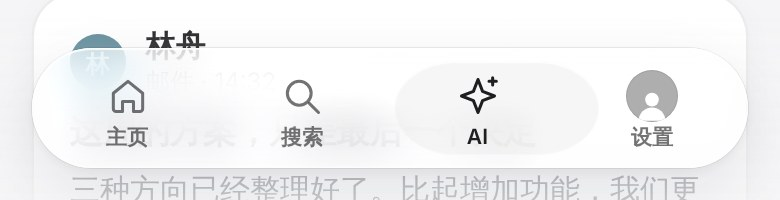
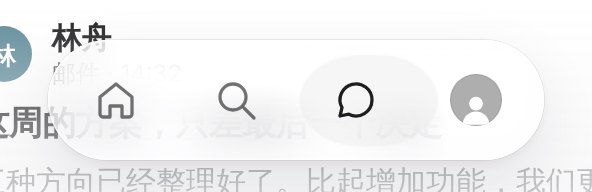
Sync design system and board 35 for phone pages; update ADR 0035 and interaction spec
Online first: Design System rules, tokens and GlassDock docs, and board 35 were published to
claude.ai, then synced here.

Claude-Session: https://claude.ai/code/session_01Mtmw4cpnpcnqq8w3hqXRvF

diff --git a/design-system/boards/index.html b/design-system/boards/index.html
@@ -16,7 +16,7 @@ main{max-width:1280px;margin:0 auto;padding:0 32px 64px}h2{font-size:17px;margin
 @media (max-width:600px){header,main{padding-left:16px;padding-right:16px}}
 </style></head><body>
 <header><h1>Sill · 设计画板</h1><p>33 块画板，与线上设计画布同步保存。用 <code>npm run boards</code> 打开，点任一块查看原尺寸；标「可交互」的可以直接点、滑。</p></header>
-<main><section><h2>① 品牌与全貌 · Sill 是什么、有哪些页面</h2><div class="g"><a class="b" href="Brand.dc.html"><span class="f" style="aspect-ratio:1440/1240"><iframe src="Brand.dc.html" loading="lazy" tabindex="-1" scrolling="no" style="width:1440px;height:1240px"></iframe></span><b>27 品牌 · Sill 窗台</b></a><a class="b" href="Sitemap.dc.html"><span class="f" style="aspect-ratio:1440/1000"><iframe src="Sitemap.dc.html" loading="lazy" tabindex="-1" scrolling="no" style="width:1440px;height:1000px"></iframe></span><b>28 页面地图</b></a></div></section><section><h2>② 进来 · 首次打开、接入来源、随手收集</h2><div class="g"><a class="b" href="Onboarding.dc.html"><span class="f" style="aspect-ratio:1440/1500"><iframe src="Onboarding.dc.html" loading="lazy" tabindex="-1" scrolling="no" style="width:1440px;height:1500px"></iframe></span><b>24 首次打开与导入</b></a><a class="b" href="SourcesImport.dc.html"><span class="f" style="aspect-ratio:1440/1360"><iframe src="SourcesImport.dc.html" loading="lazy" tabindex="-1" scrolling="no" style="width:1440px;height:1360px"></iframe></span><b>31 来源与导入</b></a><a class="b" href="Capture.dc.html"><span class="f" style="aspect-ratio:1440/1340"><iframe src="Capture.dc.html" loading="lazy" tabindex="-1" scrolling="no" style="width:1440px;height:1340px"></iframe></span><b>33 收集入口</b></a></div></section><section><h2>③ 桌面 · 信息流、下滑与等待、量大与去重</h2><div class="g"><a class="b" href="FinalFeed.dc.html"><span class="f" style="aspect-ratio:1440/1560"><iframe src="FinalFeed.dc.html" loading="lazy" tabindex="-1" scrolling="no" style="width:1440px;height:1560px"></iframe></span><b>11 定稿 · 桌面信息流 1440</b></a><a class="b" href="FinalMobile.dc.html"><span class="f" style="aspect-ratio:390/468.0"><iframe src="FinalMobile.dc.html" loading="lazy" tabindex="-1" scrolling="no" style="width:390px;height:1560px"></iframe></span><b>12 定稿 · 手机 390</b></a><a class="b" href="WebProto.dc.html"><span class="f" style="aspect-ratio:1440/960"><iframe src="WebProto.dc.html" loading="lazy" tabindex="-1" scrolling="no" style="width:1440px;height:960px"></iframe></span><b>20 定稿 · 桌面交互（可滚动）</b><em>可交互</em></a><a class="b" href="MobileProto.dc.html"><span class="f" style="aspect-ratio:860/940"><iframe src="MobileProto.dc.html" loading="lazy" tabindex="-1" scrolling="no" style="width:860px;height:940px"></iframe></span><b>19 定稿 · 手机交互（可滑动）</b><em>可交互</em></a><a class="b" href="ScrollWait.dc.html"><span class="f" style="aspect-ratio:1440/1728.0"><iframe src="ScrollWait.dc.html" loading="lazy" tabindex="-1" scrolling="no" style="width:1440px;height:2240px"></iframe></span><b>18 定稿 · 下滑与等待 v2</b></a><a class="b" href="Volume.dc.html"><span class="f" style="aspect-ratio:1440/1700"><iframe src="Volume.dc.html" loading="lazy" tabindex="-1" scrolling="no" style="width:1440px;height:1700px"></iframe></span><b>25 量大与去重</b></a><a class="b" href="GlassRail.dc.html"><span class="f" style="aspect-ratio:1440/2380"><iframe src="GlassRail.dc.html" loading="lazy" tabindex="-1" scrolling="no" style="width:1440px;height:2380px"></iframe></span><b>34 定稿 v3 · 玻璃底栏与工具条</b></a><a class="b" href="NavCapsule.dc.html"><span class="f" style="aspect-ratio:1440/1728.0"><iframe src="NavCapsule.dc.html" loading="lazy" tabindex="-1" scrolling="no" style="width:1440px;height:3130px"></iframe></span><b>35 定稿 v4 · 底部导航胶囊</b></a></div></section><section><h2>④ 打开 · 预览、动效、站内详情、退出</h2><div class="g"><a class="b" href="FinalOverlays.dc.html"><span class="f" style="aspect-ratio:1440/1728.0"><iframe src="FinalOverlays.dc.html" loading="lazy" tabindex="-1" scrolling="no" style="width:1440px;height:3440px"></iframe></span><b>15 定稿 · 弹层 v2</b></a><a class="b" href="MotionProto.dc.html"><span class="f" style="aspect-ratio:1440/960"><iframe src="MotionProto.dc.html" loading="lazy" tabindex="-1" scrolling="no" style="width:1440px;height:960px"></iframe></span><b>16 定稿 · 弹出动效（可点击）</b><em>可交互</em></a><a class="b" href="Details.dc.html"><span class="f" style="aspect-ratio:1440/1720"><iframe src="Details.dc.html" loading="lazy" tabindex="-1" scrolling="no" style="width:1440px;height:1720px"></iframe></span><b>29 站内详情</b></a><a class="b" href="ExitRules.dc.html"><span class="f" style="aspect-ratio:1440/1220"><iframe src="ExitRules.dc.html" loading="lazy" tabindex="-1" scrolling="no" style="width:1440px;height:1220px"></iframe></span><b>17 定稿 · 退出交互</b></a></div></section><section><h2>⑤ 找与管 · 搜索归档、来源信任、设置</h2><div class="g"><a class="b" href="SearchArchive.dc.html"><span class="f" style="aspect-ratio:1440/1400"><iframe src="SearchArchive.dc.html" loading="lazy" tabindex="-1" scrolling="no" style="width:1440px;height:1400px"></iframe></span><b>30 搜索与归档</b></a><a class="b" href="Trust.dc.html"><span class="f" style="aspect-ratio:1440/1060"><iframe src="Trust.dc.html" loading="lazy" tabindex="-1" scrolling="no" style="width:1440px;height:1060px"></iframe></span><b>26 来源与信任</b></a><a class="b" href="Settings.dc.html"><span class="f" style="aspect-ratio:1440/1420"><iframe src="Settings.dc.html" loading="lazy" tabindex="-1" scrolling="no" style="width:1440px;height:1420px"></iframe></span><b>32 设置</b></a></div></section><section><h2>⑥ 底层 · 卡片积木、预设、文字、图标与规范</h2><div class="g"><a class="b" href="CardBlocks.dc.html"><span class="f" style="aspect-ratio:1440/1728.0"><iframe src="CardBlocks.dc.html" loading="lazy" tabindex="-1" scrolling="no" style="width:1440px;height:2140px"></iframe></span><b>21 卡片积木（可拼）</b><em>可交互</em></a><a class="b" href="CardRecipes.dc.html"><span class="f" style="aspect-ratio:1440/1728.0"><iframe src="CardRecipes.dc.html" loading="lazy" tabindex="-1" scrolling="no" style="width:1440px;height:3770px"></iframe></span><b>22 预设卡片 · 32 种 · 站内与跳转</b></a><a class="b" href="TextLimits.dc.html"><span class="f" style="aspect-ratio:1440/1508"><iframe src="TextLimits.dc.html" loading="lazy" tabindex="-1" scrolling="no" style="width:1440px;height:1508px"></iframe></span><b>23 文字长度</b></a><a class="b" href="FinalIcons.dc.html"><span class="f" style="aspect-ratio:1440/1000"><iframe src="FinalIcons.dc.html" loading="lazy" tabindex="-1" scrolling="no" style="width:1440px;height:1000px"></iframe></span><b>13 定稿 · 图标 36 + 4</b></a><a class="b" href="FinalSpec.dc.html"><span class="f" style="aspect-ratio:1440/1180"><iframe src="FinalSpec.dc.html" loading="lazy" tabindex="-1" scrolling="no" style="width:1440px;height:1180px"></iframe></span><b>14 定稿 · 规范总表</b></a></div></section><section><h2>过程 1 · 现状盘点 main@fc9f267</h2><div class="g"><a class="b" href="Main.dc.html"><span class="f" style="aspect-ratio:1440/1180"><iframe src="Main.dc.html" loading="lazy" tabindex="-1" scrolling="no" style="width:1440px;height:1180px"></iframe></span><b>01 功能分布</b></a><a class="b" href="Cards.dc.html"><span class="f" style="aspect-ratio:1440/1180"><iframe src="Cards.dc.html" loading="lazy" tabindex="-1" scrolling="no" style="width:1440px;height:1180px"></iframe></span><b>02 卡片类型</b></a><a class="b" href="Icons.dc.html"><span class="f" style="aspect-ratio:1440/1120"><iframe src="Icons.dc.html" loading="lazy" tabindex="-1" scrolling="no" style="width:1440px;height:1120px"></iframe></span><b>03 图标盘点</b></a><a class="b" href="Foundations.dc.html"><span class="f" style="aspect-ratio:1440/1120"><iframe src="Foundations.dc.html" loading="lazy" tabindex="-1" scrolling="no" style="width:1440px;height:1120px"></iframe></span><b>04 视觉基础</b></a></div></section><section><h2>过程 2 · 优化方向，向 Apple 的细节靠拢</h2><div class="g"><a class="b" href="AppleCompare.dc.html"><span class="f" style="aspect-ratio:1440/1240"><iframe src="AppleCompare.dc.html" loading="lazy" tabindex="-1" scrolling="no" style="width:1440px;height:1240px"></iframe></span><b>05 Apple 风格对照</b></a><a class="b" href="CardsNext.dc.html"><span class="f" style="aspect-ratio:1440/1240"><iframe src="CardsNext.dc.html" loading="lazy" tabindex="-1" scrolling="no" style="width:1440px;height:1240px"></iframe></span><b>06 卡片 · 优化前后</b></a><a class="b" href="IconsNext.dc.html"><span class="f" style="aspect-ratio:1440/1240"><iframe src="IconsNext.dc.html" loading="lazy" tabindex="-1" scrolling="no" style="width:1440px;height:1240px"></iframe></span><b>07 图标 · 语义重排</b></a></div></section><section><h2>过程 3 · 卡片重构：类型、表达与尺寸</h2><div class="g"><a class="b" href="CardSystem.dc.html"><span class="f" style="aspect-ratio:1440/1120"><iframe src="CardSystem.dc.html" loading="lazy" tabindex="-1" scrolling="no" style="width:1440px;height:1120px"></iframe></span><b>08 卡片体系 · 10 → 7</b></a><a class="b" href="CardForms.dc.html"><span class="f" style="aspect-ratio:1440/1240"><iframe src="CardForms.dc.html" loading="lazy" tabindex="-1" scrolling="no" style="width:1440px;height:1240px"></iframe></span><b>09 七类卡片表达</b></a><a class="b" href="CardSizing.dc.html"><span class="f" style="aspect-ratio:1440/1380"><iframe src="CardSizing.dc.html" loading="lazy" tabindex="-1" scrolling="no" style="width:1440px;height:1380px"></iframe></span><b>10 尺寸与内容规范</b></a></div></section></main>
+<main><section><h2>① 品牌与全貌 · Sill 是什么、有哪些页面</h2><div class="g"><a class="b" href="Brand.dc.html"><span class="f" style="aspect-ratio:1440/1240"><iframe src="Brand.dc.html" loading="lazy" tabindex="-1" scrolling="no" style="width:1440px;height:1240px"></iframe></span><b>27 品牌 · Sill 窗台</b></a><a class="b" href="Sitemap.dc.html"><span class="f" style="aspect-ratio:1440/1000"><iframe src="Sitemap.dc.html" loading="lazy" tabindex="-1" scrolling="no" style="width:1440px;height:1000px"></iframe></span><b>28 页面地图</b></a></div></section><section><h2>② 进来 · 首次打开、接入来源、随手收集</h2><div class="g"><a class="b" href="Onboarding.dc.html"><span class="f" style="aspect-ratio:1440/1500"><iframe src="Onboarding.dc.html" loading="lazy" tabindex="-1" scrolling="no" style="width:1440px;height:1500px"></iframe></span><b>24 首次打开与导入</b></a><a class="b" href="SourcesImport.dc.html"><span class="f" style="aspect-ratio:1440/1360"><iframe src="SourcesImport.dc.html" loading="lazy" tabindex="-1" scrolling="no" style="width:1440px;height:1360px"></iframe></span><b>31 来源与导入</b></a><a class="b" href="Capture.dc.html"><span class="f" style="aspect-ratio:1440/1340"><iframe src="Capture.dc.html" loading="lazy" tabindex="-1" scrolling="no" style="width:1440px;height:1340px"></iframe></span><b>33 收集入口</b></a></div></section><section><h2>③ 桌面 · 信息流、下滑与等待、量大与去重</h2><div class="g"><a class="b" href="FinalFeed.dc.html"><span class="f" style="aspect-ratio:1440/1560"><iframe src="FinalFeed.dc.html" loading="lazy" tabindex="-1" scrolling="no" style="width:1440px;height:1560px"></iframe></span><b>11 定稿 · 桌面信息流 1440</b></a><a class="b" href="FinalMobile.dc.html"><span class="f" style="aspect-ratio:390/468.0"><iframe src="FinalMobile.dc.html" loading="lazy" tabindex="-1" scrolling="no" style="width:390px;height:1560px"></iframe></span><b>12 定稿 · 手机 390</b></a><a class="b" href="WebProto.dc.html"><span class="f" style="aspect-ratio:1440/960"><iframe src="WebProto.dc.html" loading="lazy" tabindex="-1" scrolling="no" style="width:1440px;height:960px"></iframe></span><b>20 定稿 · 桌面交互（可滚动）</b><em>可交互</em></a><a class="b" href="MobileProto.dc.html"><span class="f" style="aspect-ratio:860/940"><iframe src="MobileProto.dc.html" loading="lazy" tabindex="-1" scrolling="no" style="width:860px;height:940px"></iframe></span><b>19 定稿 · 手机交互（可滑动）</b><em>可交互</em></a><a class="b" href="ScrollWait.dc.html"><span class="f" style="aspect-ratio:1440/1728.0"><iframe src="ScrollWait.dc.html" loading="lazy" tabindex="-1" scrolling="no" style="width:1440px;height:2240px"></iframe></span><b>18 定稿 · 下滑与等待 v2</b></a><a class="b" href="Volume.dc.html"><span class="f" style="aspect-ratio:1440/1700"><iframe src="Volume.dc.html" loading="lazy" tabindex="-1" scrolling="no" style="width:1440px;height:1700px"></iframe></span><b>25 量大与去重</b></a><a class="b" href="GlassRail.dc.html"><span class="f" style="aspect-ratio:1440/2380"><iframe src="GlassRail.dc.html" loading="lazy" tabindex="-1" scrolling="no" style="width:1440px;height:2380px"></iframe></span><b>34 定稿 v3 · 玻璃底栏与工具条</b></a><a class="b" href="NavCapsule.dc.html"><span class="f" style="aspect-ratio:1440/1728.0"><iframe src="NavCapsule.dc.html" loading="lazy" tabindex="-1" scrolling="no" style="width:1440px;height:2310px"></iframe></span><b>35 定稿 v4 · 底部导航胶囊</b></a></div></section><section><h2>④ 打开 · 预览、动效、站内详情、退出</h2><div class="g"><a class="b" href="FinalOverlays.dc.html"><span class="f" style="aspect-ratio:1440/1728.0"><iframe src="FinalOverlays.dc.html" loading="lazy" tabindex="-1" scrolling="no" style="width:1440px;height:3440px"></iframe></span><b>15 定稿 · 弹层 v2</b></a><a class="b" href="MotionProto.dc.html"><span class="f" style="aspect-ratio:1440/960"><iframe src="MotionProto.dc.html" loading="lazy" tabindex="-1" scrolling="no" style="width:1440px;height:960px"></iframe></span><b>16 定稿 · 弹出动效（可点击）</b><em>可交互</em></a><a class="b" href="Details.dc.html"><span class="f" style="aspect-ratio:1440/1720"><iframe src="Details.dc.html" loading="lazy" tabindex="-1" scrolling="no" style="width:1440px;height:1720px"></iframe></span><b>29 站内详情</b></a><a class="b" href="ExitRules.dc.html"><span class="f" style="aspect-ratio:1440/1220"><iframe src="ExitRules.dc.html" loading="lazy" tabindex="-1" scrolling="no" style="width:1440px;height:1220px"></iframe></span><b>17 定稿 · 退出交互</b></a></div></section><section><h2>⑤ 找与管 · 搜索归档、来源信任、设置</h2><div class="g"><a class="b" href="SearchArchive.dc.html"><span class="f" style="aspect-ratio:1440/1400"><iframe src="SearchArchive.dc.html" loading="lazy" tabindex="-1" scrolling="no" style="width:1440px;height:1400px"></iframe></span><b>30 搜索与归档</b></a><a class="b" href="Trust.dc.html"><span class="f" style="aspect-ratio:1440/1060"><iframe src="Trust.dc.html" loading="lazy" tabindex="-1" scrolling="no" style="width:1440px;height:1060px"></iframe></span><b>26 来源与信任</b></a><a class="b" href="Settings.dc.html"><span class="f" style="aspect-ratio:1440/1420"><iframe src="Settings.dc.html" loading="lazy" tabindex="-1" scrolling="no" style="width:1440px;height:1420px"></iframe></span><b>32 设置</b></a></div></section><section><h2>⑥ 底层 · 卡片积木、预设、文字、图标与规范</h2><div class="g"><a class="b" href="CardBlocks.dc.html"><span class="f" style="aspect-ratio:1440/1728.0"><iframe src="CardBlocks.dc.html" loading="lazy" tabindex="-1" scrolling="no" style="width:1440px;height:2140px"></iframe></span><b>21 卡片积木（可拼）</b><em>可交互</em></a><a class="b" href="CardRecipes.dc.html"><span class="f" style="aspect-ratio:1440/1728.0"><iframe src="CardRecipes.dc.html" loading="lazy" tabindex="-1" scrolling="no" style="width:1440px;height:3770px"></iframe></span><b>22 预设卡片 · 32 种 · 站内与跳转</b></a><a class="b" href="TextLimits.dc.html"><span class="f" style="aspect-ratio:1440/1508"><iframe src="TextLimits.dc.html" loading="lazy" tabindex="-1" scrolling="no" style="width:1440px;height:1508px"></iframe></span><b>23 文字长度</b></a><a class="b" href="FinalIcons.dc.html"><span class="f" style="aspect-ratio:1440/1000"><iframe src="FinalIcons.dc.html" loading="lazy" tabindex="-1" scrolling="no" style="width:1440px;height:1000px"></iframe></span><b>13 定稿 · 图标 36 + 4</b></a><a class="b" href="FinalSpec.dc.html"><span class="f" style="aspect-ratio:1440/1180"><iframe src="FinalSpec.dc.html" loading="lazy" tabindex="-1" scrolling="no" style="width:1440px;height:1180px"></iframe></span><b>14 定稿 · 规范总表</b></a></div></section><section><h2>过程 1 · 现状盘点 main@fc9f267</h2><div class="g"><a class="b" href="Main.dc.html"><span class="f" style="aspect-ratio:1440/1180"><iframe src="Main.dc.html" loading="lazy" tabindex="-1" scrolling="no" style="width:1440px;height:1180px"></iframe></span><b>01 功能分布</b></a><a class="b" href="Cards.dc.html"><span class="f" style="aspect-ratio:1440/1180"><iframe src="Cards.dc.html" loading="lazy" tabindex="-1" scrolling="no" style="width:1440px;height:1180px"></iframe></span><b>02 卡片类型</b></a><a class="b" href="Icons.dc.html"><span class="f" style="aspect-ratio:1440/1120"><iframe src="Icons.dc.html" loading="lazy" tabindex="-1" scrolling="no" style="width:1440px;height:1120px"></iframe></span><b>03 图标盘点</b></a><a class="b" href="Foundations.dc.html"><span class="f" style="aspect-ratio:1440/1120"><iframe src="Foundations.dc.html" loading="lazy" tabindex="-1" scrolling="no" style="width:1440px;height:1120px"></iframe></span><b>04 视觉基础</b></a></div></section><section><h2>过程 2 · 优化方向，向 Apple 的细节靠拢</h2><div class="g"><a class="b" href="AppleCompare.dc.html"><span class="f" style="aspect-ratio:1440/1240"><iframe src="AppleCompare.dc.html" loading="lazy" tabindex="-1" scrolling="no" style="width:1440px;height:1240px"></iframe></span><b>05 Apple 风格对照</b></a><a class="b" href="CardsNext.dc.html"><span class="f" style="aspect-ratio:1440/1240"><iframe src="CardsNext.dc.html" loading="lazy" tabindex="-1" scrolling="no" style="width:1440px;height:1240px"></iframe></span><b>06 卡片 · 优化前后</b></a><a class="b" href="IconsNext.dc.html"><span class="f" style="aspect-ratio:1440/1240"><iframe src="IconsNext.dc.html" loading="lazy" tabindex="-1" scrolling="no" style="width:1440px;height:1240px"></iframe></span><b>07 图标 · 语义重排</b></a></div></section><section><h2>过程 3 · 卡片重构：类型、表达与尺寸</h2><div class="g"><a class="b" href="CardSystem.dc.html"><span class="f" style="aspect-ratio:1440/1120"><iframe src="CardSystem.dc.html" loading="lazy" tabindex="-1" scrolling="no" style="width:1440px;height:1120px"></iframe></span><b>08 卡片体系 · 10 → 7</b></a><a class="b" href="CardForms.dc.html"><span class="f" style="aspect-ratio:1440/1240"><iframe src="CardForms.dc.html" loading="lazy" tabindex="-1" scrolling="no" style="width:1440px;height:1240px"></iframe></span><b>09 七类卡片表达</b></a><a class="b" href="CardSizing.dc.html"><span class="f" style="aspect-ratio:1440/1380"><iframe src="CardSizing.dc.html" loading="lazy" tabindex="-1" scrolling="no" style="width:1440px;height:1380px"></iframe></span><b>10 尺寸与内容规范</b></a></div></section></main>
 <script>
 // Scale each live board to its thumbnail width.
 const fit=()=>document.querySelectorAll('.f').forEach(f=>{const i=f.querySelector('iframe');i.style.transform=`scale(${f.clientWidth/parseFloat(i.style.width)})`;});

diff --git a/design-system/boards/NavCapsule.dc.html b/design-system/boards/NavCapsule.dc.html
@@ -15,46 +15,52 @@ body{margin:0}
 <div style="width: 1440px; box-sizing: border-box; padding: 56px 52px 64px; background: #f5f5f7; color: #1d1d1f; font-family: -apple-system, BlinkMacSystemFont, 'PingFang SC', 'Hiragino Sans GB', 'Microsoft YaHei', sans-serif; display: flex; flex-direction: column; gap: 40px">
   <header style="display: flex; flex-direction: column; gap: 8px; max-width: 960px">
     <h1 style="margin: 0; font-size: 34px; line-height: 1.2; font-weight: 600; letter-spacing: -.03em">底部导航胶囊</h1>
-    <p style="margin: 0; font-size: 15px; line-height: 1.6; color: #636366">2026-10-16 定稿，取代 34 号画板里右下角的「桌面工具胶囊 + 头像」。34 号里的工具条收起、详情工具条、多选叠放仍然有效。截图来自实际页面：手机 390×844，桌面 1440×900。</p>
+    <p style="margin: 0; font-size: 15px; line-height: 1.6; color: #636366">2026-10-17 定稿，取代 34 号画板里右下角的「桌面工具胶囊 + 头像」。34 号里的工具条收起、详情工具条、多选叠放仍然有效。截图来自实际页面：手机 390×844，桌面 1440×900。</p>
   </header>
   <section style="display: flex; flex-direction: column; gap: 18px">
     <h2 style="margin: 0; font-size: 22px; line-height: 1.3; font-weight: 600; letter-spacing: -.02em">规则</h2>
-    <ul style="margin: 0; padding-left: 20px; display: grid; gap: 8px; font-size: 15px; line-height: 1.6; max-width: 1100px"><li>四格：主页、搜索、AI、设置。图标 22px 在上，文字 10.5px 在下；当前一格 ink，其余 62% ink，不用颜色区分。</li><li>胶囊只管「去哪里」。收藏、备注与标签留在详情工具条，批量动作留在多选菜单。</li><li>镜片：glass-press 底加上沿高光。换格用 ease-spring 520ms 滑过去，途中横向拉长 16%、纵向压扁 10%，到位回圆。</li><li>点开搜索、AI、设置：镜片先动，面板晚 160ms 打开，底栏 220ms 淡出；关上后镜片滑回主页。减少动态效果时直接到位。</li><li>AI：内置助手还没有。面板只写「即将推出」和一句说明，不放输入框或可点的动作。读屏读作「AI，即将推出」。</li><li>添加（记一笔）移到设置第一组「添加」；键盘 N 和首次打开页的「记一笔」照旧直接打开记一笔面板。</li><li>尺寸：高 60（rail-row），每格 76（nav-tab），4px 内边距，居中；手机占满一行（最宽 420），四格平分。离底 28，手机 16 加安全区。</li><li>收起规则不变：向下滚动 28px 完全收起，向上 14px、停下 0.65 秒、到顶或到底时回来。</li></ul>
+    <ul style="margin: 0; padding-left: 20px; display: grid; gap: 8px; font-size: 15px; line-height: 1.6; max-width: 1100px"><li>四格：主页、搜索、AI、设置。当前一格 ink，其余 62% ink，不用颜色区分。AI 用对话气泡图标。</li><li>手机：胶囊不占满一行，按内容宽度居中（每格 60，共 248）；只有图标，不写文字，名字只给读屏。</li><li>手机：每一格都是切换页面，不是弹窗。页面铺满胶囊后面的屏幕，没有把手、关闭按钮和遮罩；胶囊一直在，镜片和页面同时换，页面 180ms 淡入。Esc 回主页。</li><li>桌面：图标在上、文字在下；搜索、AI、设置以面板打开，镜片先动，面板晚 160ms 打开。</li><li>镜片：glass-press 底加上沿高光。换格用 ease-spring 520ms 滑过去，途中横向拉长 16%、纵向压扁 10%，到位回圆。减少动态效果时直接到位。</li><li>胶囊只管「去哪里」。收藏、备注与标签留在详情工具条，批量动作留在多选菜单。</li><li>AI：内置助手还没有。页面只写「即将推出」和一句说明，不放输入框或可点的动作。</li><li>添加（记一笔）在设置第一组「添加」；键盘 N 和首次打开页的「记一笔」照旧直接打开。</li></ul>
   </section>
   <section style="display: flex; flex-direction: column; gap: 18px">
-    <h2 style="margin: 0; font-size: 22px; line-height: 1.3; font-weight: 600; letter-spacing: -.02em">镜片换格（手机，放大）</h2>
-    <div style="display: flex; gap: 24px; flex-wrap: wrap"><figure style="margin: 0; display: flex; flex-direction: column; gap: 10px; width: 780px">
-      <img src="nav-capsule/capsule-home.jpg" alt="停在主页" style="display: block; width: 780px; height: 200px; object-fit: cover; object-position: top; border-radius: 20px; border: 1px solid rgba(0,0,0,.08); background: #fff">
+    <h2 style="margin: 0; font-size: 22px; line-height: 1.3; font-weight: 600; letter-spacing: -.02em">镜片换格（手机，原尺寸 2 倍）</h2>
+    <div style="display: flex; gap: 24px; flex-wrap: wrap"><figure style="margin: 0; display: flex; flex-direction: column; gap: 10px; width: 296px">
+      <img src="nav-capsule/capsule-home.jpg" alt="停在主页" style="display: block; width: 296px; height: 100px; object-fit: cover; object-position: top; border-radius: 16px; border: 1px solid rgba(0,0,0,.08); background: #fff">
       <figcaption style="font-size: 13px; line-height: 1.45; color: #636366">停在主页</figcaption>
-    </figure><figure style="margin: 0; display: flex; flex-direction: column; gap: 10px; width: 780px">
-      <img src="nav-capsule/capsule-moving.jpg" alt="滑向 AI 的途中：拉长、压扁" style="display: block; width: 780px; height: 200px; object-fit: cover; object-position: top; border-radius: 20px; border: 1px solid rgba(0,0,0,.08); background: #fff">
+    </figure><figure style="margin: 0; display: flex; flex-direction: column; gap: 10px; width: 296px">
+      <img src="nav-capsule/capsule-moving.jpg" alt="滑向 AI 的途中：拉长、压扁" style="display: block; width: 296px; height: 100px; object-fit: cover; object-position: top; border-radius: 16px; border: 1px solid rgba(0,0,0,.08); background: #fff">
       <figcaption style="font-size: 13px; line-height: 1.45; color: #636366">滑向 AI 的途中：拉长、压扁</figcaption>
-    </figure><figure style="margin: 0; display: flex; flex-direction: column; gap: 10px; width: 780px">
-      <img src="nav-capsule/capsule-ai.jpg" alt="到位后回圆" style="display: block; width: 780px; height: 200px; object-fit: cover; object-position: top; border-radius: 20px; border: 1px solid rgba(0,0,0,.08); background: #fff">
+    </figure><figure style="margin: 0; display: flex; flex-direction: column; gap: 10px; width: 296px">
+      <img src="nav-capsule/capsule-ai.jpg" alt="到位后回圆" style="display: block; width: 296px; height: 100px; object-fit: cover; object-position: top; border-radius: 16px; border: 1px solid rgba(0,0,0,.08); background: #fff">
       <figcaption style="font-size: 13px; line-height: 1.45; color: #636366">到位后回圆</figcaption>
     </figure></div>
   </section>
   <section style="display: flex; flex-direction: column; gap: 18px">
-    <h2 style="margin: 0; font-size: 22px; line-height: 1.3; font-weight: 600; letter-spacing: -.02em">手机 390</h2>
-    <div style="display: flex; gap: 24px; flex-wrap: wrap"><figure style="margin: 0; display: flex; flex-direction: column; gap: 10px; width: 300px">
-      <img src="nav-capsule/phone-feed.jpg" alt="工作台：胶囊占满一行，镜片在主页" style="display: block; width: 300px; height: 649px; object-fit: cover; object-position: top; border-radius: 28px; border: 1px solid rgba(0,0,0,.08); background: #fff">
-      <figcaption style="font-size: 13px; line-height: 1.45; color: #636366">工作台：胶囊占满一行，镜片在主页</figcaption>
-    </figure><figure style="margin: 0; display: flex; flex-direction: column; gap: 10px; width: 300px">
-      <img src="nav-capsule/phone-ai.jpg" alt="AI：只写即将推出，没有可点的动作" style="display: block; width: 300px; height: 649px; object-fit: cover; object-position: top; border-radius: 28px; border: 1px solid rgba(0,0,0,.08); background: #fff">
-      <figcaption style="font-size: 13px; line-height: 1.45; color: #636366">AI：只写即将推出，没有可点的动作</figcaption>
-    </figure><figure style="margin: 0; display: flex; flex-direction: column; gap: 10px; width: 300px">
-      <img src="nav-capsule/phone-settings-add.jpg" alt="设置的第一组「添加」：记一笔输入框" style="display: block; width: 300px; height: 649px; object-fit: cover; object-position: top; border-radius: 28px; border: 1px solid rgba(0,0,0,.08); background: #fff">
-      <figcaption style="font-size: 13px; line-height: 1.45; color: #636366">设置的第一组「添加」：记一笔输入框</figcaption>
-    </figure><figure style="margin: 0; display: flex; flex-direction: column; gap: 10px; width: 300px">
-      <img src="nav-capsule/phone-dark.jpg" alt="深色：同一套玻璃和镜片" style="display: block; width: 300px; height: 649px; object-fit: cover; object-position: top; border-radius: 28px; border: 1px solid rgba(0,0,0,.08); background: #fff">
-      <figcaption style="font-size: 13px; line-height: 1.45; color: #636366">深色：同一套玻璃和镜片</figcaption>
+    <h2 style="margin: 0; font-size: 22px; line-height: 1.3; font-weight: 600; letter-spacing: -.02em">手机 390 · 每一格是一个页面</h2>
+    <div style="display: flex; gap: 24px; flex-wrap: wrap"><figure style="margin: 0; display: flex; flex-direction: column; gap: 10px; width: 200px">
+      <img src="nav-capsule/phone-feed.jpg" alt="主页" style="display: block; width: 200px; height: 433px; object-fit: cover; object-position: top; border-radius: 24px; border: 1px solid rgba(0,0,0,.08); background: #fff">
+      <figcaption style="font-size: 13px; line-height: 1.45; color: #636366">主页</figcaption>
+    </figure><figure style="margin: 0; display: flex; flex-direction: column; gap: 10px; width: 200px">
+      <img src="nav-capsule/phone-search.jpg" alt="搜索页：筛选和输入框在胶囊上方" style="display: block; width: 200px; height: 433px; object-fit: cover; object-position: top; border-radius: 24px; border: 1px solid rgba(0,0,0,.08); background: #fff">
+      <figcaption style="font-size: 13px; line-height: 1.45; color: #636366">搜索页：筛选和输入框在胶囊上方</figcaption>
+    </figure><figure style="margin: 0; display: flex; flex-direction: column; gap: 10px; width: 200px">
+      <img src="nav-capsule/phone-ai.jpg" alt="AI 页：只写即将推出" style="display: block; width: 200px; height: 433px; object-fit: cover; object-position: top; border-radius: 24px; border: 1px solid rgba(0,0,0,.08); background: #fff">
+      <figcaption style="font-size: 13px; line-height: 1.45; color: #636366">AI 页：只写即将推出</figcaption>
+    </figure><figure style="margin: 0; display: flex; flex-direction: column; gap: 10px; width: 200px">
+      <img src="nav-capsule/phone-settings.jpg" alt="设置页" style="display: block; width: 200px; height: 433px; object-fit: cover; object-position: top; border-radius: 24px; border: 1px solid rgba(0,0,0,.08); background: #fff">
+      <figcaption style="font-size: 13px; line-height: 1.45; color: #636366">设置页</figcaption>
+    </figure><figure style="margin: 0; display: flex; flex-direction: column; gap: 10px; width: 200px">
+      <img src="nav-capsule/phone-settings-add.jpg" alt="设置 › 添加" style="display: block; width: 200px; height: 433px; object-fit: cover; object-position: top; border-radius: 24px; border: 1px solid rgba(0,0,0,.08); background: #fff">
+      <figcaption style="font-size: 13px; line-height: 1.45; color: #636366">设置 › 添加</figcaption>
+    </figure><figure style="margin: 0; display: flex; flex-direction: column; gap: 10px; width: 200px">
+      <img src="nav-capsule/phone-dark.jpg" alt="深色" style="display: block; width: 200px; height: 433px; object-fit: cover; object-position: top; border-radius: 24px; border: 1px solid rgba(0,0,0,.08); background: #fff">
+      <figcaption style="font-size: 13px; line-height: 1.45; color: #636366">深色</figcaption>
     </figure></div>
   </section>
   <section style="display: flex; flex-direction: column; gap: 18px">
-    <h2 style="margin: 0; font-size: 22px; line-height: 1.3; font-weight: 600; letter-spacing: -.02em">桌面 1440</h2>
+    <h2 style="margin: 0; font-size: 22px; line-height: 1.3; font-weight: 600; letter-spacing: -.02em">桌面 1440 · 面板</h2>
     <div style="display: flex; gap: 24px; flex-wrap: wrap"><figure style="margin: 0; display: flex; flex-direction: column; gap: 10px; width: 648px">
-      <img src="nav-capsule/desktop-feed.jpg" alt="工作台：胶囊居中" style="display: block; width: 648px; height: 405px; object-fit: cover; object-position: top; border-radius: 16px; border: 1px solid rgba(0,0,0,.08); background: #fff">
-      <figcaption style="font-size: 13px; line-height: 1.45; color: #636366">工作台：胶囊居中</figcaption>
+      <img src="nav-capsule/desktop-feed.jpg" alt="工作台：胶囊居中，图标加文字" style="display: block; width: 648px; height: 405px; object-fit: cover; object-position: top; border-radius: 16px; border: 1px solid rgba(0,0,0,.08); background: #fff">
+      <figcaption style="font-size: 13px; line-height: 1.45; color: #636366">工作台：胶囊居中，图标加文字</figcaption>
     </figure><figure style="margin: 0; display: flex; flex-direction: column; gap: 10px; width: 648px">
       <img src="nav-capsule/desktop-ai.jpg" alt="AI 面板" style="display: block; width: 648px; height: 405px; object-fit: cover; object-position: top; border-radius: 16px; border: 1px solid rgba(0,0,0,.08); background: #fff">
       <figcaption style="font-size: 13px; line-height: 1.45; color: #636366">AI 面板</figcaption>

diff --git a/design-system/components/GlassDock/preview.html b/design-system/components/GlassDock/preview.html
@@ -6,7 +6,7 @@
 <script>
 const Q=window.Sill,I=Q.icon,root=document.getElementById('root');
 const tab=(k,face,label,aria)=>`<button type="button" class="nav-tab" data-extra="${k}" aria-label="${aria||label}"${k==='home'?' aria-current="page"':''}><span class="nav-icon">${face}</span><span class="nav-label" aria-hidden="true">${label}</span></button>`;
-root.innerHTML=`<nav class="nav-capsule glass" aria-label="主导航" style="width:max-content;--lens-x:4px;--lens-w:76px"><span class="nav-lens" aria-hidden="true"></span>${tab('home',I('home',22),'主页')}${tab('search',I('search',22),'搜索')}${tab('ai',I('sparkles',22),'AI','AI，即将推出')}${tab('settings',`<span class="account-wrap"><span class="account-face is-blank">${I('person',20)}</span></span>`,'设置')}</nav>`;
+root.innerHTML=`<nav class="nav-capsule glass" aria-label="主导航" style="width:max-content;--lens-x:4px;--lens-w:76px"><span class="nav-lens" aria-hidden="true"></span>${tab('home',I('home',22),'主页')}${tab('search',I('search',22),'搜索')}${tab('ai',I('chat',22),'AI','AI，即将推出')}${tab('settings',`<span class="account-wrap"><span class="account-face is-blank">${I('person',20)}</span></span>`,'设置')}</nav>`;
 const nav=root.firstElementChild;
 nav.addEventListener('click',e=>{const t=e.target.closest('.nav-tab');if(!t)return;nav.querySelectorAll('.nav-tab').forEach(n=>n.toggleAttribute('aria-current',n===t));nav.style.setProperty('--lens-x',t.offsetLeft+'px');nav.classList.remove('is-moving');void nav.offsetWidth;nav.classList.add('is-moving');});
 </script>

diff --git a/design-system/components/bundle.css b/design-system/components/bundle.css
@@ -328,8 +328,8 @@ main:has(.welcome, .empty-card) .feed-end {
 		opacity 180ms var(--ease),
 		visibility 0s var(--rail-tuck);
 }
-body:has(#modal[open]) #dock,
-body:has(#modal[open]) .scroll-edge {
+body:has(#modal[open]:not(.page)) #dock,
+body:has(#modal[open]:not(.page)) .scroll-edge {
 	opacity: 0;
 	visibility: hidden;
 	/* The lens finishes its move while the rail fades under the sheet. */

diff --git a/docs/adr/0035-bottom-navigation-capsule.md b/docs/adr/0035-bottom-navigation-capsule.md
@@ -4,21 +4,24 @@
 
 ## 决定
 
-- 工作台底部只有一个导航胶囊，居中，四格：主页、搜索、AI、设置。图标在上、文字在下，当前一格用 `ink`，其余格颜色变淡，不用蓝色。手机上胶囊占满一行，四格平分。
+- 工作台底部只有一个导航胶囊，居中，四格：主页、搜索、AI、设置。当前一格用 `ink`，其余格颜色变淡，不用蓝色。
+- 手机：胶囊不占满一行，按内容宽度居中；只有图标，不写文字。每一格都是切换页面，不是弹窗：页面铺满胶囊后面的屏幕，胶囊一直在，没有把手、关闭按钮和遮罩。
+- 桌面：图标在上、文字在下；搜索、AI、设置以面板打开。
 - 胶囊只负责「去哪里」，不放对卡片的动作。收藏、备注与标签留在详情和阅读页的工具条里，批量动作留在多选菜单里。
 - 设置格显示头像，点开设置。顶部仍然不放头像或齿轮。
-- AI 格先放上，标「即将推出」。点开的面板只说明还不能用，不放输入框或会让人以为能用的按钮。以后的助手功能放进这一格，不再加新的悬浮按钮。
+- AI 格用对话气泡图标，先放上，标「即将推出」。点开的面板只说明还不能用，不放输入框或会让人以为能用的按钮。以后的助手功能放进这一格，不再加新的悬浮按钮。
 - 添加（记一笔）移出底栏，放进设置的第一组「添加」，里面是同一个输入框。键盘 `N` 和首次打开页上的「记一笔」照旧直接打开记一笔面板。
-- 当前一格上有一块透明玻璃镜片。换格时镜片用弹簧曲线滑过去（520ms），途中横向拉长、纵向压扁，到位后回圆。点开搜索、AI、设置时镜片先动，面板晚 160ms 打开，底栏淡出；关上面板后镜片滑回主页。减少动态效果时镜片直接到位。
+- 当前一格上有一块透明玻璃镜片。换格时镜片用弹簧曲线滑过去（520ms），途中横向拉长、纵向压扁，到位后回圆。手机上镜片和页面同时换；桌面上点开搜索、AI、设置时镜片先动，面板晚 160ms 打开，底栏淡出，关上面板后镜片滑回主页。减少动态效果时镜片直接到位。
 
 ## 原因
 
-用户要求底部用接近 Apple 现在的透明玻璃导航，只放主页、搜索、AI、设置四格，切换要有动画，添加放进设置。把助手的位置定为导航里的一格，以后加功能时不用再改底栏结构。
+用户要求底部用接近 Apple 现在的透明玻璃导航，只放主页、搜索、AI、设置四格，切换要有动画，添加放进设置；手机上不占满一行、不写文字、每一格切换页面而不是弹窗，AI 用对话图标。把助手的位置定为导航里的一格，以后加功能时不用再改底栏结构。
 
 ## 代价
 
 - 记一笔从一次点击变成两次（设置 › 添加）。键盘 `N` 和首次打开页仍是一次。
 - AI 格在助手上线前只是说明页。不在这里显示任何外部连接或执行状态，避免把占位说成已经能用。
-- 桌面上也用底部居中的导航胶囊，和手机保持同一位置；原生 Mac 应用不受影响，继续使用系统窗口工具栏。
+- 手机页面用非模态的 `dialog.show()` 打开，焦点不被困在页面里；离开页面靠胶囊或 Esc。
+- 桌面上也用底部居中的导航胶囊，和手机保持同一位置，但仍以面板打开；原生 Mac 应用不受影响，继续使用系统窗口工具栏。
 
 实现位置：`apps/web/views/app.ts`（`navHTML`、`setNav`、`goTo`）、`apps/web/interactions/panels.ts`（`ai`、设置「添加」组）、`apps/web/styles/controls.css`。规则写在 [设计手册](../../design-system/README.md)「底部导航与反馈」一节和 [GlassDock](../../design-system/components/GlassDock/README.md)。

diff --git a/docs/product/interaction-spec.md b/docs/product/interaction-spec.md
@@ -12,9 +12,9 @@
 
 先遵守 [Agent 优先与界面边界](agent-mcp.md#agent-优先与界面边界)：已有卡片内容的修改由 AI 完成，界面不提供复杂编辑器；既有新增卡片、记一笔入口及其他轻操作、布局和动效保留。下述原有交互不因取消内容编辑而被整体删除或重新设计。
 
-页面只有卡片信息流和底部居中的一个导航胶囊：主页、搜索、AI、设置四格。主页回到工作台，已在工作台时滚回顶部；设置格显示头像，点开设置；AI 格标「即将推出」，打开的面板只说明还不能用。添加（记一笔）在设置第一组「添加」里，键盘 `N` 和首次打开页仍直接打开记一笔面板。没有入口球和展开菜单，没有侧栏、顶部导航、顶部头像和欢迎横幅。刷新用下拉或 `R` 键，回到顶部用 `T` 键。手机上胶囊占满一行，四格平分；桌面上居中。
+页面只有卡片信息流和底部居中的一个导航胶囊：主页、搜索、AI、设置四格。主页回到工作台，已在工作台时滚回顶部；设置格显示头像，点开设置；AI 格标「即将推出」，打开的面板只说明还不能用。添加（记一笔）在设置第一组「添加」里，键盘 `N` 和首次打开页仍直接打开记一笔面板。没有入口球和展开菜单，没有侧栏、顶部导航、顶部头像和欢迎横幅。刷新用下拉或 `R` 键，回到顶部用 `T` 键。手机上胶囊不占满一行，按内容宽度居中，只有图标；每一格都是切换页面，不是弹窗：页面铺满胶囊后面的屏幕，没有把手、关闭按钮和遮罩，胶囊一直在，Esc 回主页。桌面上胶囊居中，图标加文字，搜索、AI、设置以面板打开。AI 用对话气泡图标。
 
-当前一格上有一块透明玻璃镜片。换格时镜片用弹簧曲线 520ms 滑过去，途中横向拉长 16%、纵向压扁 10%。点开搜索、AI、设置时，镜片先动，面板晚 160ms 打开，底栏 220ms 内淡出；面板关上后镜片滑回主页。减少动态效果时镜片直接到位。
+当前一格上有一块透明玻璃镜片。换格时镜片用弹簧曲线 520ms 滑过去，途中横向拉长 16%、纵向压扁 10%。手机上镜片和页面同时换，页面 180ms 淡入；桌面上点开搜索、AI、设置时，镜片先动，面板晚 160ms 打开，底栏 220ms 内淡出，面板关上后镜片滑回主页。减少动态效果时镜片直接到位。
 
 信息流一次显示 40 张，滑到底再加载；全部显示完，底部是一条短线，不写「没有更多了」。
 
@@ -112,7 +112,7 @@
 | 桌面预览淡入 / 淡出 | 280ms / 140ms | `--ease`，保持文字原始大小 |
 | 预览正文、操作条淡入 | 280ms，延后约 200ms | 缓出 |
 | 工具条收起 / 出现 | 300ms / 380ms | `--ease` / `--ease-sheet` |
-| 导航镜片换格 | 520ms（面板晚 160ms 打开） | `--ease-spring` |
+| 导航镜片换格 | 520ms（桌面面板晚 160ms 打开；手机页面 180ms 淡入） | `--ease-spring` |
 | 读完对勾弹出 | 320ms | 回弹 |
 | 卡片按压 | 120ms | 缩到 0.97 |
 

diff --git a/design-system/components/GlassDock/README.md b/design-system/components/GlassDock/README.md
@@ -3,11 +3,12 @@
 底部导航胶囊：居中的一条玻璃胶囊，四格：主页、搜索、AI、设置。一块透明镜片标出当前一格，换格时滑过去。
 
 - 结构：`nav#nav.nav-capsule.glass` 里是 `.nav-lens` 和四个 `.nav-tab`（`data-action="nav"`，`data-extra` 为 `home`、`search`、`ai`、`settings`）。当前一格带 `aria-current="page"`。
-- 每格：图标 22px 在上，文字 10.5px 在下；当前一格 `ink`，其余 62% 的 `ink`。设置格显示头像（`account-face`，26px），有账号名时显示首字，没有时显示 `person`。
-- AI 格：内置助手还没有，点开的面板只写「即将推出」和一句说明，不放输入框或可点的动作。读屏读作「AI，即将推出」。
+- 每格：桌面图标 22px 在上、文字 10.5px 在下；手机只有图标 24px，不写文字（`aria-label` 保留）。当前一格 `ink`，其余 62% 的 `ink`。设置格显示头像（`account-face`，26px），有账号名时显示首字，没有时显示 `person`。
+- AI 格：图标 `chat`。内置助手还没有，打开后只写「即将推出」和一句说明，不放输入框或可点的动作。读屏读作「AI，即将推出」。
 - 添加（记一笔）不在胶囊里，在设置的第一组「添加」；键盘 `N` 照旧打开记一笔面板。
-- 镜片：`glass-press` 底，上沿 `glass-edge` 高光。用 `--lens-x`、`--lens-w` 定位，`ease-spring` 520ms（`dur-lens`）滑动；移动途中 `scale: 1.16 0.9` 再回到 1。面板晚 160ms 打开，底栏 220ms 淡出。减少动态效果时直接到位。
-- 尺寸：高 `rail-row` 60，每格 `nav-tab` 76，4px 内边距；手机上占满一行（最宽 420），四格平分。离底 28（手机 16 加安全区）。
+- 镜片：`glass-press` 底，上沿 `glass-edge` 高光。用 `--lens-x`、`--lens-w` 定位，`ease-spring` 520ms（`dur-lens`）滑动；移动途中 `scale: 1.16 0.9` 再回到 1。桌面上面板晚 160ms 打开，底栏 220ms 淡出；手机上页面立即切换（180ms 淡入），胶囊不离开。减少动态效果时直接到位。
+- 尺寸：高 `rail-row` 60，每格 `nav-tab` 76（手机 60，胶囊共 248 宽，不占满一行），4px 内边距。
+- 手机上每一格都是页面：`#modal.page` 用非模态 `dialog.show()` 打开，铺满胶囊后面的屏幕（`z-index` 低于底栏），没有把手、关闭按钮和遮罩；Esc 回主页。离底 28（手机 16 加安全区）。
 - 材质：`glass` + `glass-filter` + 左上 `glass-edge`、右下 `glass-shade`、外圈 `glass-rim`、`shadow-glass`。减少透明度时改用 `card` 实底加描边。
 - 向下滚动 28px 完全收起（`dur-tuck`），停下 `rest-show`、向上滚、到顶或到底时回来；弹层打开、拖动或键盘弹出时让开。
 - 筛选进行中，搜索图标右上有 5px `ink` 小点，不显示数量。同步中，头像外有一段转动的细弧。
